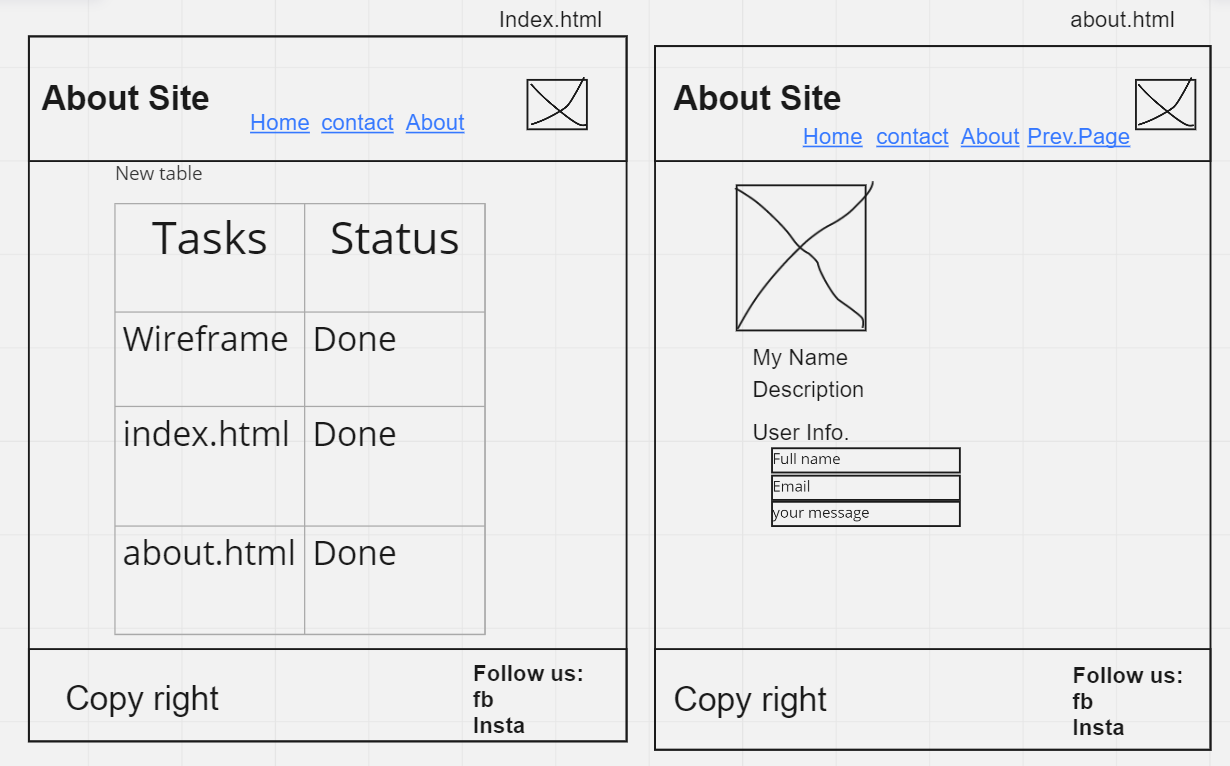
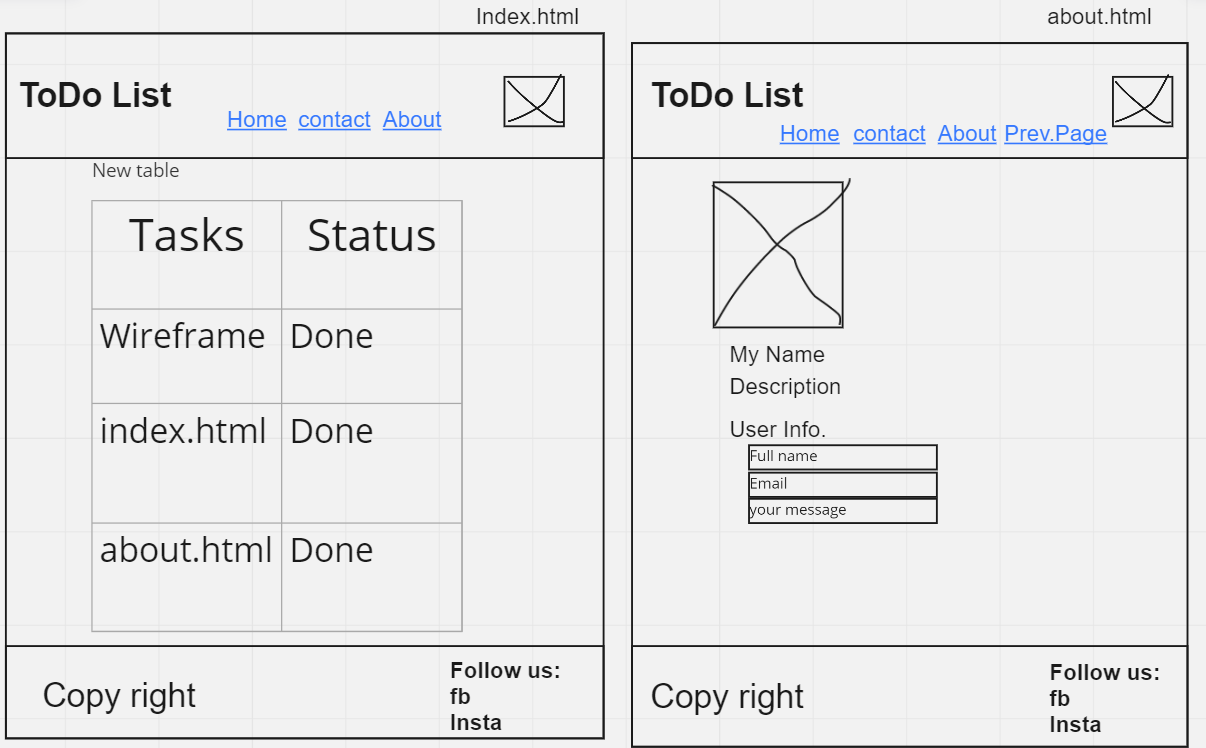
imag2

Changed region(s): [[0.0, 0.0, 1.0, 1.0], [0.6136, 0.5535, 0.7977, 0.7072]]

diff --git a/about.html b/about.html
@@ -5,7 +5,7 @@
     <meta charset="UTF-8">
     <meta http-equiv="X-UA-Compatible" content="IE=edge">
     <meta name="viewport" content="width=device-width, initial-scale=1.0">
-    <title>About Site2</title>
+    <title>ToDo List2</title>
 </head>
 
 <body>

diff --git a/index.html b/index.html
@@ -5,7 +5,7 @@
     <meta charset="UTF-8">
     <meta http-equiv="X-UA-Compatible" content="IE=edge">
     <meta name="viewport" content="width=device-width, initial-scale=1.0">
-    <title>About Site</title>
+    <title>ToDo List</title>
 </head>
 
 <body>
